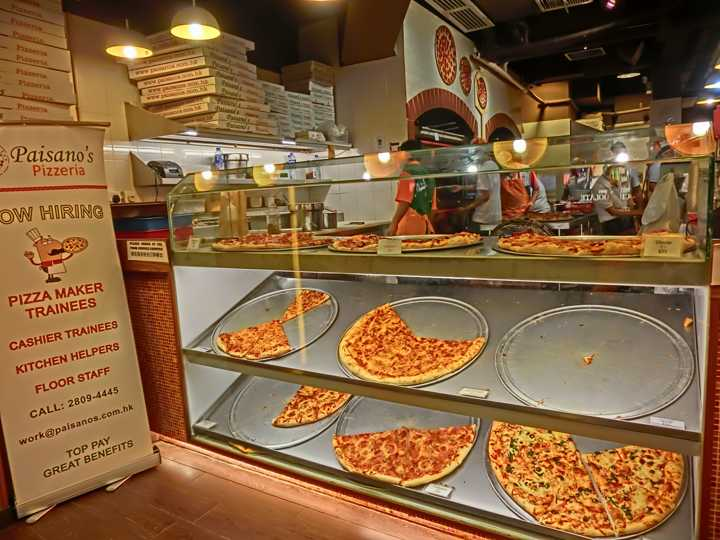
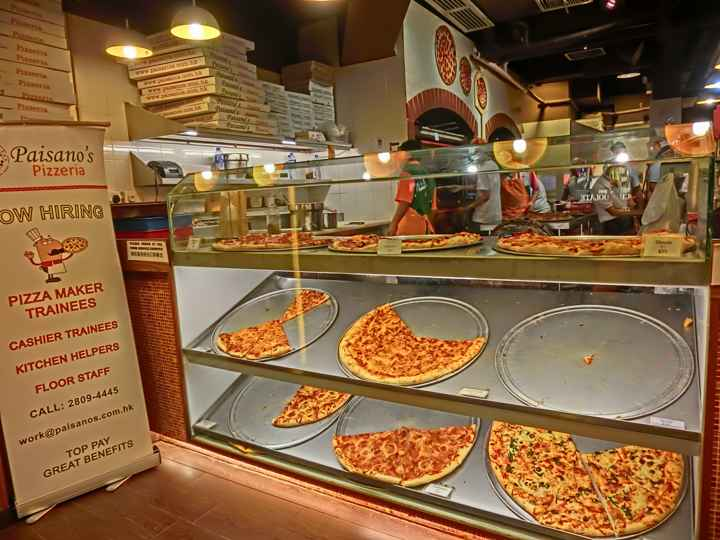
All pages optimized

diff --git a/views/js/main.min.js b/views/js/main.min.js
@@ -1,1 +1,1 @@
-function getAdj(a){switch(a){case"dark":var b=["dark","morbid","scary","spooky","gothic","deviant","creepy","sadistic","black","dangerous","dejected","haunted","morose","tragic","shattered","broken","sad","melancholy","somber","dark","gloomy","homicidal","murderous","shady","misty","dusky","ghostly","shadowy","demented","cursed","insane","possessed","grotesque","obsessed"];return b;case"color":var c=["blue","green","purple","grey","scarlet","NeonGreen","NeonBlue","NeonPink","HotPink","pink","black","red","maroon","silver","golden","yellow","orange","mustard","plum","violet","cerulean","brown","lavender","violet","magenta","chestnut","rosy","copper","crimson","teal","indigo","navy","azure","periwinkle","brassy","verdigris","veridian","tan","raspberry","beige","sandy","ElectricBlue","white","champagne","coral","cyan"];return c;case"whimsical":var d=["whimsical","silly","drunken","goofy","funny","weird","strange","odd","playful","clever","boastful","breakdancing","hilarious","conceited","happy","comical","curious","peculiar","quaint","quirky","fancy","wayward","fickle","yawning","sleepy","cockeyed","dizzy","dancing","absurd","laughing","hairy","smiling","perplexed","baffled","cockamamie","vulgar","hoodwinked","brainwashed"];return d;case"shiny":var e=["sapphire","opal","silver","gold","platinum","ruby","emerald","topaz","diamond","amethyst","turquoise","starlit","moonlit","bronze","metal","jade","amber","garnet","obsidian","onyx","pearl","copper","sunlit","brass","brassy","metallic"];return e;case"noisy":var f=["untuned","loud","soft","shrieking","melodious","musical","operatic","symphonic","dancing","lyrical","harmonic","orchestral","noisy","dissonant","rhythmic","hissing","singing","crooning","shouting","screaming","wailing","crying","howling","yelling","hollering","caterwauling","bawling","bellowing","roaring","squealing","beeping","knocking","tapping","rapping","humming","scatting","whispered","whispering","rasping","buzzing","whirring","whistling","whistled"];return f;case"apocalyptic":var g=["nuclear","apocalyptic","desolate","atomic","zombie","collapsed","grim","fallen","collapsed","cannibalistic","radioactive","toxic","poisonous","venomous","disastrous","grimy","dirty","undead","bloodshot","rusty","glowing","decaying","rotten","deadly","plagued","decimated","rotting","putrid","decayed","deserted","acidic"];return g;case"insulting":var h=["stupid","idiotic","fat","ugly","hideous","grotesque","dull","dumb","lazy","sluggish","brainless","slow","gullible","obtuse","dense","dim","dazed","ridiculous","witless","daft","crazy","vapid","inane","mundane","hollow","vacuous","boring","insipid","tedious","monotonous","weird","bizarre","backward","moronic","ignorant","scatterbrained","forgetful","careless","lethargic","insolent","indolent","loitering","gross","disgusting","bland","horrid","unseemly","revolting","homely","deformed","disfigured","offensive","cowardly","weak","villainous","fearful","monstrous","unattractive","unpleasant","nasty","beastly","snide","horrible","syncophantic","unhelpful","bootlicking"];return h;case"praise":var i=["beautiful","intelligent","smart","genius","ingenious","gorgeous","pretty","witty","angelic","handsome","graceful","talented","exquisite","enchanting","fascinating","interesting","divine","alluring","ravishing","wonderful","magnificient","marvelous","dazzling","cute","charming","attractive","nifty","delightful","superior","amiable","gentle","heroic","courageous","valiant","brave","noble","daring","fearless","gallant","adventurous","cool","enthusiastic","fierce","awesome","radical","tubular","fearsome","majestic","grand","stunning"];return i;case"scientific":var j=["scientific","technical","digital","programming","calculating","formulating","cyberpunk","mechanical","technological","innovative","brainy","chemical","quantum","astro","space","theoretical","atomic","electronic","gaseous","investigative","solar","extinct","galactic"];return j;default:var k=["scientific","technical","digital","programming","calculating","formulating","cyberpunk","mechanical","technological","innovative","brainy","chemical","quantum","astro","space","theoretical","atomic","electronic","gaseous","investigative","solar","extinct","galactic"];return k}}function getNoun(a){switch(a){case"animals":var b=["flamingo","hedgehog","owl","elephant","pussycat","alligator","dachsund","poodle","beagle","crocodile","kangaroo","wallaby","woodpecker","eagle","falcon","canary","parrot","parakeet","hamster","gerbil","squirrel","rat","dove","toucan","raccoon","vulture","peacock","goldfish","rook","koala","skunk","goat","rooster","fox","porcupine","llama","grasshopper","gorilla","monkey","seahorse","wombat","wolf","giraffe","badger","lion","mouse","beetle","cricket","nightingale","hawk","trout","squid","octopus","sloth","snail","locust","baboon","lemur","meerkat","oyster","frog","toad","jellyfish","butterfly","caterpillar","tiger","hyena","zebra","snail","pig","weasel","donkey","penguin","crane","buzzard","vulture","rhino","hippopotamus","dolphin","sparrow","beaver","moose","minnow","otter","bat","mongoose","swan","firefly","platypus"];return b;case"profession":var c=["doctor","lawyer","ninja","writer","samurai","surgeon","clerk","artist","actor","engineer","mechanic","comedian","fireman","nurse","RockStar","musician","carpenter","plumber","cashier","electrician","waiter","president","governor","senator","scientist","programmer","singer","dancer","director","mayor","merchant","detective","investigator","navigator","pilot","priest","cowboy","stagehand","soldier","ambassador","pirate","miner","police"];return c;case"fantasy":var d=["centaur","wizard","gnome","orc","troll","sword","fairy","pegasus","halfling","elf","changeling","ghost","knight","squire","magician","witch","warlock","unicorn","dragon","wyvern","princess","prince","king","queen","jester","tower","castle","kraken","seamonster","mermaid","psychic","seer","oracle"];return d;case"music":var e=["violin","flute","bagpipe","guitar","symphony","orchestra","piano","trombone","tuba","opera","drums","harpsichord","harp","harmonica","accordion","tenor","soprano","baritone","cello","viola","piccolo","ukelele","woodwind","saxophone","bugle","trumpet","sousaphone","cornet","stradivarius","marimbas","bells","timpani","bongos","clarinet","recorder","oboe","conductor","singer"];return e;case"horror":var f=["murderer","chainsaw","knife","sword","murder","devil","killer","psycho","ghost","monster","godzilla","werewolf","vampire","demon","graveyard","zombie","mummy","curse","death","grave","tomb","beast","nightmare","frankenstein","specter","poltergeist","wraith","corpse","scream","massacre","cannibal","skull","bones","undertaker","zombie","creature","mask","psychopath","fiend","satanist","moon","fullMoon"];return f;case"gross":var g=["slime","bug","roach","fluid","pus","booger","spit","boil","blister","orifice","secretion","mucus","phlegm","centipede","beetle","fart","snot","crevice","flatulence","juice","mold","mildew","germs","discharge","toilet","udder","odor","substance","fluid","moisture","garbage","trash","bug"];return g;case"everyday":var h=["mirror","knife","fork","spork","spoon","tupperware","minivan","suburb","lamp","desk","stereo","television","TV","book","car","truck","soda","door","video","game","computer","calender","tree","plant","flower","chimney","attic","kitchen","garden","school","wallet","bottle"];return h;case"jewelry":var i=["earrings","ring","necklace","pendant","choker","brooch","bracelet","cameo","charm","bauble","trinket","jewelry","anklet","bangle","locket","finery","crown","tiara","blingBling","chain","rosary","jewel","gemstone","beads","armband","pin","costume","ornament","treasure"];return i;case"places":var j=["swamp","graveyard","cemetery","park","building","house","river","ocean","sea","field","forest","woods","neighborhood","city","town","suburb","country","meadow","cliffs","lake","stream","creek","school","college","university","library","bakery","shop","store","theater","garden","canyon","highway","restaurant","cafe","diner","street","road","freeway","alley"];return j;case"scifi":var k=["robot","alien","raygun","spaceship","UFO","rocket","phaser","astronaut","spaceman","planet","star","galaxy","computer","future","timeMachine","wormHole","timeTraveler","scientist","invention","martian","pluto","jupiter","saturn","mars","quasar","blackHole","warpDrive","laser","orbit","gears","molecule","electron","neutrino","proton","experiment","photon","apparatus","universe","gravity","darkMatter","constellation","circuit","asteroid"];return k;default:var l=["robot","alien","raygun","spaceship","UFO","rocket","phaser","astronaut","spaceman","planet","star","galaxy","computer","future","timeMachine","wormHole","timeTraveler","scientist","invention","martian","pluto","jupiter","saturn","mars","quasar","blackHole","warpDrive","laser","orbit","gears","molecule","electron","neutrino","proton","experiment","photon","apparatus","universe","gravity","darkMatter","constellation","circuit","asteroid"];return l}}function generator(a,b){var c=getAdj(a),d=getNoun(b),e=parseInt(Math.random()*c.length),f=parseInt(Math.random()*d.length),g="The "+c[e].capitalize()+" "+d[f].capitalize();return g}function randomName(){var a=parseInt(Math.random()*adjectives.length),b=parseInt(Math.random()*nouns.length);return generator(adjectives[a],nouns[b])}function logAverageFrame(a){for(var b=a.length,c=0,d=b-1;d>b-11;d--)c+=a[d].duration;console.log("Average time to generate last 10 frames: "+c/10+"ms")}function updatePositions(){frame++,window.performance.mark("mark_start_frame");for(var a=document.querySelectorAll(".mover"),b=0;b<a.length;b++){var c=Math.sin(document.body.scrollTop/1250+b%5);a[b].style.left=a[b].basicLeft+100*c+"px"}if(window.performance.mark("mark_end_frame"),window.performance.measure("measure_frame_duration","mark_start_frame","mark_end_frame"),frame%10===0){var d=window.performance.getEntriesByName("measure_frame_duration");logAverageFrame(d)}}var pizzaIngredients={};pizzaIngredients.meats=["Pepperoni","Sausage","Fennel Sausage","Spicy Sausage","Chicken","BBQ Chicken","Chorizo","Chicken Andouille","Salami","Tofu","Bacon","Canadian Bacon","Proscuitto","Italian Sausage","Ground Beef","Anchovies","Turkey","Ham","Venison","Lamb","Duck","Soylent Green","Carne Asada","Soppressata Picante","Coppa","Pancetta","Bresola","Lox","Guanciale","Chili","Beef Jerky","Pastrami","Kielbasa","Scallops","Filet Mignon"],pizzaIngredients.nonMeats=["White Onions","Red Onions","Sauteed Onions","Green Peppers","Red Peppers","Banana Peppers","Ghost Peppers","Habanero Peppers","Jalapeno Peppers","Stuffed Peppers","Spinach","Tomatoes","Pineapple","Pear Slices","Apple Slices","Mushrooms","Arugula","Basil","Fennel","Rosemary","Cilantro","Avocado","Guacamole","Salsa","Swiss Chard","Kale","Sun Dried Tomatoes","Walnuts","Artichoke","Asparagus","Caramelized Onions","Mango","Garlic","Olives","Cauliflower","Polenta","Fried Egg","Zucchini","Hummus"],pizzaIngredients.cheeses=["American Cheese","Swiss Cheese","Goat Cheese","Mozzarella Cheese","Parmesean Cheese","Velveeta Cheese","Gouda Cheese","Muenster Cheese","Applewood Cheese","Asiago Cheese","Bleu Cheese","Boursin Cheese","Brie Cheese","Cheddar Cheese","Chevre Cheese","Havarti Cheese","Jack Cheese","Pepper Jack Cheese","Gruyere Cheese","Limberger Cheese","Manchego Cheese","Marscapone Cheese","Pecorino Cheese","Provolone Cheese","Queso Cheese","Roquefort Cheese","Romano Cheese","Ricotta Cheese","Smoked Gouda"],pizzaIngredients.sauces=["Red Sauce","Marinara","BBQ Sauce","No Sauce","Hot Sauce"],pizzaIngredients.crusts=["White Crust","Whole Wheat Crust","Flatbread Crust","Stuffed Crust"],String.prototype.capitalize=function(){return this.charAt(0).toUpperCase()+this.slice(1)};var adjectives=["dark","color","whimsical","shiny","noise","apocalyptic","insulting","praise","scientific"],nouns=["animals","everyday","fantasy","gross","horror","jewelry","places","scifi"],selectRandomMeat=function(){var a=pizzaIngredients.meats[Math.floor(Math.random()*pizzaIngredients.meats.length)];return a},selectRandomNonMeat=function(){var a=pizzaIngredients.nonMeats[Math.floor(Math.random()*pizzaIngredients.nonMeats.length)];return a},selectRandomCheese=function(){var a=pizzaIngredients.cheeses[Math.floor(Math.random()*pizzaIngredients.cheeses.length)];return a},selectRandomSauce=function(){var a=pizzaIngredients.sauces[Math.floor(Math.random()*pizzaIngredients.sauces.length)];return a},selectRandomCrust=function(){var a=pizzaIngredients.crusts[Math.floor(Math.random()*pizzaIngredients.crusts.length)];return a},ingredientItemizer=function(a){return"<li>"+a+"</li>"},makeRandomPizza=function(){for(var a="",b=Math.floor(4*Math.random()),c=Math.floor(3*Math.random()),d=Math.floor(2*Math.random()),e=0;b>e;e++)a+=ingredientItemizer(selectRandomMeat());for(var f=0;c>f;f++)a+=ingredientItemizer(selectRandomNonMeat());for(var g=0;d>g;g++)a+=ingredientItemizer(selectRandomCheese());return a+=ingredientItemizer(selectRandomSauce()),a+=ingredientItemizer(selectRandomCrust())},pizzaElementGenerator=function(a){var b,c,d,e,f,g;return b=document.createElement("div"),c=document.createElement("div"),d=document.createElement("img"),e=document.createElement("div"),b.classList.add("randomPizzaContainer"),b.style.width="33.33%",b.style.height="325px",b.id="pizza"+a,c.classList.add("col-md-6"),d.src="images/pizza.png",d.classList.add("img-responsive"),c.appendChild(d),b.appendChild(c),e.classList.add("col-md-6"),f=document.createElement("h4"),f.innerHTML=randomName(),e.appendChild(f),g=document.createElement("ul"),g.innerHTML=makeRandomPizza(),e.appendChild(g),b.appendChild(e),b},resizePizzas=function(a){function b(a){switch(a){case"1":return void(document.querySelector("#pizzaSize").innerHTML="Small");case"2":return void(document.querySelector("#pizzaSize").innerHTML="Medium");case"3":return void(document.querySelector("#pizzaSize").innerHTML="Large");default:console.log("bug in changeSliderLabel")}}function c(a,b){function c(a){switch(a){case"1":return.25;case"2":return.3333;case"3":return.5;default:console.log("bug in sizeSwitcher")}}var d=a.offsetWidth,e=document.querySelector("#randomPizzas").offsetWidth,f=d/e,g=c(b),h=(g-f)*e;return h}function d(a){for(var b=0;b<document.querySelectorAll(".randomPizzaContainer").length;b++){var d=c(document.querySelectorAll(".randomPizzaContainer")[b],a),e=document.querySelectorAll(".randomPizzaContainer")[b].offsetWidth+d+"px";document.querySelectorAll(".randomPizzaContainer")[b].style.width=e}}window.performance.mark("mark_start_resize"),b(a),d(a),window.performance.mark("mark_end_resize"),window.performance.measure("measure_pizza_resize","mark_start_resize","mark_end_resize");var e=window.performance.getEntriesByName("measure_pizza_resize");console.log("Time to resize pizzas: "+e[0].duration+"ms")};window.performance.mark("mark_start_generating");for(var i=2;100>i;i++){var pizzasDiv=document.getElementById("randomPizzas");pizzasDiv.appendChild(pizzaElementGenerator(i))}window.performance.mark("mark_end_generating"),window.performance.measure("measure_pizza_generation","mark_start_generating","mark_end_generating");var timeToGenerate=window.performance.getEntriesByName("measure_pizza_generation");console.log("Time to generate pizzas on load: "+timeToGenerate[0].duration+"ms");var frame=0;window.addEventListener("scroll",updatePositions),document.addEventListener("DOMContentLoaded",function(){for(var a=8,b=256,c=0;200>c;c++){var d=document.createElement("img");d.className="mover",d.src="images/pizza.png",d.style.height="100px",d.style.width="73.333px",d.basicLeft=c%a*b,d.style.top=Math.floor(c/a)*b+"px",document.querySelector("#movingPizzas1").appendChild(d)}updatePositions()});
+function getAdj(a){switch(a){case"dark":var b=["dark","morbid","scary","spooky","gothic","deviant","creepy","sadistic","black","dangerous","dejected","haunted","morose","tragic","shattered","broken","sad","melancholy","somber","dark","gloomy","homicidal","murderous","shady","misty","dusky","ghostly","shadowy","demented","cursed","insane","possessed","grotesque","obsessed"];return b;case"color":var c=["blue","green","purple","grey","scarlet","NeonGreen","NeonBlue","NeonPink","HotPink","pink","black","red","maroon","silver","golden","yellow","orange","mustard","plum","violet","cerulean","brown","lavender","violet","magenta","chestnut","rosy","copper","crimson","teal","indigo","navy","azure","periwinkle","brassy","verdigris","veridian","tan","raspberry","beige","sandy","ElectricBlue","white","champagne","coral","cyan"];return c;case"whimsical":var d=["whimsical","silly","drunken","goofy","funny","weird","strange","odd","playful","clever","boastful","breakdancing","hilarious","conceited","happy","comical","curious","peculiar","quaint","quirky","fancy","wayward","fickle","yawning","sleepy","cockeyed","dizzy","dancing","absurd","laughing","hairy","smiling","perplexed","baffled","cockamamie","vulgar","hoodwinked","brainwashed"];return d;case"shiny":var e=["sapphire","opal","silver","gold","platinum","ruby","emerald","topaz","diamond","amethyst","turquoise","starlit","moonlit","bronze","metal","jade","amber","garnet","obsidian","onyx","pearl","copper","sunlit","brass","brassy","metallic"];return e;case"noisy":var f=["untuned","loud","soft","shrieking","melodious","musical","operatic","symphonic","dancing","lyrical","harmonic","orchestral","noisy","dissonant","rhythmic","hissing","singing","crooning","shouting","screaming","wailing","crying","howling","yelling","hollering","caterwauling","bawling","bellowing","roaring","squealing","beeping","knocking","tapping","rapping","humming","scatting","whispered","whispering","rasping","buzzing","whirring","whistling","whistled"];return f;case"apocalyptic":var g=["nuclear","apocalyptic","desolate","atomic","zombie","collapsed","grim","fallen","collapsed","cannibalistic","radioactive","toxic","poisonous","venomous","disastrous","grimy","dirty","undead","bloodshot","rusty","glowing","decaying","rotten","deadly","plagued","decimated","rotting","putrid","decayed","deserted","acidic"];return g;case"insulting":var h=["stupid","idiotic","fat","ugly","hideous","grotesque","dull","dumb","lazy","sluggish","brainless","slow","gullible","obtuse","dense","dim","dazed","ridiculous","witless","daft","crazy","vapid","inane","mundane","hollow","vacuous","boring","insipid","tedious","monotonous","weird","bizarre","backward","moronic","ignorant","scatterbrained","forgetful","careless","lethargic","insolent","indolent","loitering","gross","disgusting","bland","horrid","unseemly","revolting","homely","deformed","disfigured","offensive","cowardly","weak","villainous","fearful","monstrous","unattractive","unpleasant","nasty","beastly","snide","horrible","syncophantic","unhelpful","bootlicking"];return h;case"praise":var i=["beautiful","intelligent","smart","genius","ingenious","gorgeous","pretty","witty","angelic","handsome","graceful","talented","exquisite","enchanting","fascinating","interesting","divine","alluring","ravishing","wonderful","magnificient","marvelous","dazzling","cute","charming","attractive","nifty","delightful","superior","amiable","gentle","heroic","courageous","valiant","brave","noble","daring","fearless","gallant","adventurous","cool","enthusiastic","fierce","awesome","radical","tubular","fearsome","majestic","grand","stunning"];return i;case"scientific":var j=["scientific","technical","digital","programming","calculating","formulating","cyberpunk","mechanical","technological","innovative","brainy","chemical","quantum","astro","space","theoretical","atomic","electronic","gaseous","investigative","solar","extinct","galactic"];return j;default:var k=["scientific","technical","digital","programming","calculating","formulating","cyberpunk","mechanical","technological","innovative","brainy","chemical","quantum","astro","space","theoretical","atomic","electronic","gaseous","investigative","solar","extinct","galactic"];return k}}function getNoun(a){switch(a){case"animals":var b=["flamingo","hedgehog","owl","elephant","pussycat","alligator","dachsund","poodle","beagle","crocodile","kangaroo","wallaby","woodpecker","eagle","falcon","canary","parrot","parakeet","hamster","gerbil","squirrel","rat","dove","toucan","raccoon","vulture","peacock","goldfish","rook","koala","skunk","goat","rooster","fox","porcupine","llama","grasshopper","gorilla","monkey","seahorse","wombat","wolf","giraffe","badger","lion","mouse","beetle","cricket","nightingale","hawk","trout","squid","octopus","sloth","snail","locust","baboon","lemur","meerkat","oyster","frog","toad","jellyfish","butterfly","caterpillar","tiger","hyena","zebra","snail","pig","weasel","donkey","penguin","crane","buzzard","vulture","rhino","hippopotamus","dolphin","sparrow","beaver","moose","minnow","otter","bat","mongoose","swan","firefly","platypus"];return b;case"profession":var c=["doctor","lawyer","ninja","writer","samurai","surgeon","clerk","artist","actor","engineer","mechanic","comedian","fireman","nurse","RockStar","musician","carpenter","plumber","cashier","electrician","waiter","president","governor","senator","scientist","programmer","singer","dancer","director","mayor","merchant","detective","investigator","navigator","pilot","priest","cowboy","stagehand","soldier","ambassador","pirate","miner","police"];return c;case"fantasy":var d=["centaur","wizard","gnome","orc","troll","sword","fairy","pegasus","halfling","elf","changeling","ghost","knight","squire","magician","witch","warlock","unicorn","dragon","wyvern","princess","prince","king","queen","jester","tower","castle","kraken","seamonster","mermaid","psychic","seer","oracle"];return d;case"music":var e=["violin","flute","bagpipe","guitar","symphony","orchestra","piano","trombone","tuba","opera","drums","harpsichord","harp","harmonica","accordion","tenor","soprano","baritone","cello","viola","piccolo","ukelele","woodwind","saxophone","bugle","trumpet","sousaphone","cornet","stradivarius","marimbas","bells","timpani","bongos","clarinet","recorder","oboe","conductor","singer"];return e;case"horror":var f=["murderer","chainsaw","knife","sword","murder","devil","killer","psycho","ghost","monster","godzilla","werewolf","vampire","demon","graveyard","zombie","mummy","curse","death","grave","tomb","beast","nightmare","frankenstein","specter","poltergeist","wraith","corpse","scream","massacre","cannibal","skull","bones","undertaker","zombie","creature","mask","psychopath","fiend","satanist","moon","fullMoon"];return f;case"gross":var g=["slime","bug","roach","fluid","pus","booger","spit","boil","blister","orifice","secretion","mucus","phlegm","centipede","beetle","fart","snot","crevice","flatulence","juice","mold","mildew","germs","discharge","toilet","udder","odor","substance","fluid","moisture","garbage","trash","bug"];return g;case"everyday":var h=["mirror","knife","fork","spork","spoon","tupperware","minivan","suburb","lamp","desk","stereo","television","TV","book","car","truck","soda","door","video","game","computer","calender","tree","plant","flower","chimney","attic","kitchen","garden","school","wallet","bottle"];return h;case"jewelry":var i=["earrings","ring","necklace","pendant","choker","brooch","bracelet","cameo","charm","bauble","trinket","jewelry","anklet","bangle","locket","finery","crown","tiara","blingBling","chain","rosary","jewel","gemstone","beads","armband","pin","costume","ornament","treasure"];return i;case"places":var j=["swamp","graveyard","cemetery","park","building","house","river","ocean","sea","field","forest","woods","neighborhood","city","town","suburb","country","meadow","cliffs","lake","stream","creek","school","college","university","library","bakery","shop","store","theater","garden","canyon","highway","restaurant","cafe","diner","street","road","freeway","alley"];return j;case"scifi":var k=["robot","alien","raygun","spaceship","UFO","rocket","phaser","astronaut","spaceman","planet","star","galaxy","computer","future","timeMachine","wormHole","timeTraveler","scientist","invention","martian","pluto","jupiter","saturn","mars","quasar","blackHole","warpDrive","laser","orbit","gears","molecule","electron","neutrino","proton","experiment","photon","apparatus","universe","gravity","darkMatter","constellation","circuit","asteroid"];return k;default:var l=["robot","alien","raygun","spaceship","UFO","rocket","phaser","astronaut","spaceman","planet","star","galaxy","computer","future","timeMachine","wormHole","timeTraveler","scientist","invention","martian","pluto","jupiter","saturn","mars","quasar","blackHole","warpDrive","laser","orbit","gears","molecule","electron","neutrino","proton","experiment","photon","apparatus","universe","gravity","darkMatter","constellation","circuit","asteroid"];return l}}function generator(a,b){var c=getAdj(a),d=getNoun(b),e=parseInt(Math.random()*c.length),f=parseInt(Math.random()*d.length),g="The "+c[e].capitalize()+" "+d[f].capitalize();return g}function randomName(){var a=parseInt(Math.random()*adjectives.length),b=parseInt(Math.random()*nouns.length);return generator(adjectives[a],nouns[b])}function logAverageFrame(a){for(var b=a.length,c=0,d=b-1;d>b-11;d--)c+=a[d].duration;console.log("Average time to generate last 10 frames: "+c/10+"ms")}function updatePositions(){frame++,window.performance.mark("mark_start_frame");for(var a=document.body.scrollTop/1250,b=0;b<pizzaLength;b++){var c=Math.sin(a+i5[counter]);counter++,counter>4&&(counter=0),items[b].style.left=items[b].basicLeft+100*c+"px"}if(window.performance.mark("mark_end_frame"),window.performance.measure("measure_frame_duration","mark_start_frame","mark_end_frame"),frame%10===0){var d=window.performance.getEntriesByName("measure_frame_duration");logAverageFrame(d)}}var pizzaIngredients={};pizzaIngredients.meats=["Pepperoni","Sausage","Fennel Sausage","Spicy Sausage","Chicken","BBQ Chicken","Chorizo","Chicken Andouille","Salami","Tofu","Bacon","Canadian Bacon","Proscuitto","Italian Sausage","Ground Beef","Anchovies","Turkey","Ham","Venison","Lamb","Duck","Soylent Green","Carne Asada","Soppressata Picante","Coppa","Pancetta","Bresola","Lox","Guanciale","Chili","Beef Jerky","Pastrami","Kielbasa","Scallops","Filet Mignon"],pizzaIngredients.nonMeats=["White Onions","Red Onions","Sauteed Onions","Green Peppers","Red Peppers","Banana Peppers","Ghost Peppers","Habanero Peppers","Jalapeno Peppers","Stuffed Peppers","Spinach","Tomatoes","Pineapple","Pear Slices","Apple Slices","Mushrooms","Arugula","Basil","Fennel","Rosemary","Cilantro","Avocado","Guacamole","Salsa","Swiss Chard","Kale","Sun Dried Tomatoes","Walnuts","Artichoke","Asparagus","Caramelized Onions","Mango","Garlic","Olives","Cauliflower","Polenta","Fried Egg","Zucchini","Hummus"],pizzaIngredients.cheeses=["American Cheese","Swiss Cheese","Goat Cheese","Mozzarella Cheese","Parmesean Cheese","Velveeta Cheese","Gouda Cheese","Muenster Cheese","Applewood Cheese","Asiago Cheese","Bleu Cheese","Boursin Cheese","Brie Cheese","Cheddar Cheese","Chevre Cheese","Havarti Cheese","Jack Cheese","Pepper Jack Cheese","Gruyere Cheese","Limberger Cheese","Manchego Cheese","Marscapone Cheese","Pecorino Cheese","Provolone Cheese","Queso Cheese","Roquefort Cheese","Romano Cheese","Ricotta Cheese","Smoked Gouda"],pizzaIngredients.sauces=["Red Sauce","Marinara","BBQ Sauce","No Sauce","Hot Sauce"],pizzaIngredients.crusts=["White Crust","Whole Wheat Crust","Flatbread Crust","Stuffed Crust"],String.prototype.capitalize=function(){return this.charAt(0).toUpperCase()+this.slice(1)};var adjectives=["dark","color","whimsical","shiny","noise","apocalyptic","insulting","praise","scientific"],nouns=["animals","everyday","fantasy","gross","horror","jewelry","places","scifi"],selectRandomMeat=function(){var a=pizzaIngredients.meats[Math.floor(Math.random()*pizzaIngredients.meats.length)];return a},selectRandomNonMeat=function(){var a=pizzaIngredients.nonMeats[Math.floor(Math.random()*pizzaIngredients.nonMeats.length)];return a},selectRandomCheese=function(){var a=pizzaIngredients.cheeses[Math.floor(Math.random()*pizzaIngredients.cheeses.length)];return a},selectRandomSauce=function(){var a=pizzaIngredients.sauces[Math.floor(Math.random()*pizzaIngredients.sauces.length)];return a},selectRandomCrust=function(){var a=pizzaIngredients.crusts[Math.floor(Math.random()*pizzaIngredients.crusts.length)];return a},ingredientItemizer=function(a){return"<li>"+a+"</li>"},makeRandomPizza=function(){for(var a="",b=Math.floor(4*Math.random()),c=Math.floor(3*Math.random()),d=Math.floor(2*Math.random()),e=0;b>e;e++)a+=ingredientItemizer(selectRandomMeat());for(var f=0;c>f;f++)a+=ingredientItemizer(selectRandomNonMeat());for(var g=0;d>g;g++)a+=ingredientItemizer(selectRandomCheese());return a+=ingredientItemizer(selectRandomSauce()),a+=ingredientItemizer(selectRandomCrust())},pizzaElementGenerator=function(a){var b,c,d,e,f,g;return b=document.createElement("div"),c=document.createElement("div"),d=document.createElement("img"),e=document.createElement("div"),b.classList.add("randomPizzaContainer"),b.style.width="33.33%",b.style.height="325px",b.id="pizza"+a,c.classList.add("col-md-6"),d.src="images/pizza.png",d.classList.add("img-responsive"),c.appendChild(d),b.appendChild(c),e.classList.add("col-md-6"),f=document.createElement("h4"),f.innerHTML=randomName(),e.appendChild(f),g=document.createElement("ul"),g.innerHTML=makeRandomPizza(),e.appendChild(g),b.appendChild(e),b},resizePizzas=function(a){function b(a){switch(a){case"1":return void(document.querySelector("#pizzaSize").innerHTML="Small");case"2":return void(document.querySelector("#pizzaSize").innerHTML="Medium");case"3":return void(document.querySelector("#pizzaSize").innerHTML="Large");default:console.log("bug in changeSliderLabel")}}function c(a){switch(a){case"1":newWidth=25;break;case"2":newWidth=33.3;break;case"3":newWidth=50;break;default:console.log("bug in sizeSwitcher")}for(var b=document.querySelectorAll(".randomPizzaContainer"),c=0;c<b.length;c++)b[c].style.width=newWidth+"%"}window.performance.mark("mark_start_resize"),b(a),c(a),window.performance.mark("mark_end_resize"),window.performance.measure("measure_pizza_resize","mark_start_resize","mark_end_resize");var d=window.performance.getEntriesByName("measure_pizza_resize");console.log("Time to resize pizzas: "+d[0].duration+"ms")};window.performance.mark("mark_start_generating");for(var i=2;100>i;i++){var pizzasDiv=document.getElementById("randomPizzas");pizzasDiv.appendChild(pizzaElementGenerator(i))}window.performance.mark("mark_end_generating"),window.performance.measure("measure_pizza_generation","mark_start_generating","mark_end_generating");var timeToGenerate=window.performance.getEntriesByName("measure_pizza_generation");console.log("Time to generate pizzas on load: "+timeToGenerate[0].duration+"ms");var frame=0,counter=0,i5=[0,1,2,3,4];window.addEventListener("scroll",updatePositions),document.addEventListener("DOMContentLoaded",function(){for(var a=8,b=256,c=0;35>c;c++){var d=document.createElement("img");d.className="mover",d.src="images/pizza.png",d.style.height="100px",d.style.width="73.333px",d.basicLeft=c%a*b,d.style.top=Math.floor(c/a)*b+"px",document.querySelector("#movingPizzas1").appendChild(d)}window.items=document.getElementsByClassName("mover"),window.pizzaLength=items.length,updatePositions()});

diff --git a/views/js/main.js b/views/js/main.js
@@ -422,38 +422,30 @@ var resizePizzas = function(size) {
   changeSliderLabel(size);
 
   // Returns the size difference to change a pizza element from one size to another. Called by changePizzaSlices(size).
-  function determineDx (elem, size) {
-    var oldwidth = elem.offsetWidth;
-    var windowwidth = document.querySelector("#randomPizzas").offsetWidth;
-    var oldsize = oldwidth / windowwidth;
-
-    // TODO: change to 3 sizes? no more xl?
-    // Changes the slider value to a percent width
-    function sizeSwitcher (size) {
-      switch(size) {
-        case "1":
-          return 0.25;
-        case "2":
-          return 0.3333;
-        case "3":
-          return 0.5;
-        default:
-          console.log("bug in sizeSwitcher");
-      }
-    }
-
-    var newsize = sizeSwitcher(size);
-    var dx = (newsize - oldsize) * windowwidth;
-
-    return dx;
-  }
-
   // Iterates through pizza elements on the page and changes their widths
+
+  // This function is modified to eliminate FSL. Inside the for loop layout was triggered for
+  // every pizza element before css which caused a performance bottleneck. Layout was triggered inside the 
+  // for loop because offsetWidth was called multiple times for each element to calculate the new size. 
+  // After modification, the switch case is modified and the call for offsetWidth is removed, this way a 
+  // proper flow of the render pipeline is maintained and style is triggered before layout. 
   function changePizzaSizes(size) {
-    for (var i = 0; i < document.querySelectorAll(".randomPizzaContainer").length; i++) {
-      var dx = determineDx(document.querySelectorAll(".randomPizzaContainer")[i], size);
-      var newwidth = (document.querySelectorAll(".randomPizzaContainer")[i].offsetWidth + dx) + 'px';
-      document.querySelectorAll(".randomPizzaContainer")[i].style.width = newwidth;
+    switch(size) {
+      case "1":
+        newWidth = 25;
+        break;
+      case "2":
+        newWidth = 33.3;
+        break;
+      case "3":
+        newWidth = 50;
+        break;
+      default:
+        console.log("bug in sizeSwitcher");
+    }
+    var randomPizzas = document.querySelectorAll(".randomPizzaContainer");
+    for (var i = 0; i < randomPizzas.length; i++) {
+      randomPizzas[i].style.width = newWidth + "%";
     }
   }
 
@@ -497,17 +489,37 @@ function logAverageFrame(times) {   // times is the array of User Timing measure
 // The following code for sliding background pizzas was pulled from Ilya's demo found at:
 // https://www.igvita.com/slides/2012/devtools-tips-and-tricks/jank-demo.html
 
+// The counter variable is used to select an item from the array i5. The array i5 contains all 
+// possible results of (i % 5) which was present in the original script.
+var counter = 0;
+var i5 = [0, 1, 2, 3, 4];
 // Moves the sliding background pizzas based on scroll position
 function updatePositions() {
   frame++;
   window.performance.mark("mark_start_frame");
+  // The querySelectAll(".mover") was moved to the end the file.
 
-  var items = document.querySelectorAll('.mover');
-  for (var i = 0; i < items.length; i++) {
-    var phase = Math.sin((document.body.scrollTop / 1250) + (i % 5));
+  // A varialbe location is declared here which calls scrollTop once for each scroll event instead of
+  // calling it inside the foor loop once for each background pizza element. The value location is then used
+  // as a constant for each scroll event inside the for loop to calculate phase. Before scrollTop was inside the
+  // for loop and for each element it was called which triggered layout before style for each element, which causes
+  // FSL and performance bottleneck.
+  var location = document.body.scrollTop / 1250;
+  // pizzaLength is defined at the end of the file to avoid calling items.length repeatedly.
+    for (var i = 0; i < pizzaLength; i++) {
+    // phase is calcaulated using the constant location and by selecting an element equivalent to (i % 5) from
+    // the array i5. If the counter excceds 4 it is then reset to zero.
+    var phase = Math.sin( location + i5[counter]);
+    counter ++;
+    if (counter > 4) {
+      counter = 0;
+    }
+    // Style is triggered for each element. I replaced this line with translateX, but didn't notice enhancement 
+    // in the performance so i retained the original line.
     items[i].style.left = items[i].basicLeft + 100 * phase + 'px';
   }
-
+  
+  
   // User Timing API to the rescue again. Seriously, it's worth learning.
   // Super easy to create custom metrics.
   window.performance.mark("mark_end_frame");
@@ -520,12 +532,16 @@ function updatePositions() {
 
 // runs updatePositions on scroll
 window.addEventListener('scroll', updatePositions);
+console.log("GdscscsdcG");
+// Generates the sliding pizzas when the page loads
 
-// Generates the sliding pizzas when the page loads.
 document.addEventListener('DOMContentLoaded', function() {
+  console.log("GGGG");
   var cols = 8;
   var s = 256;
-  for (var i = 0; i < 200; i++) {
+  // Instead of painting 200 pizzas. 35 pizzas are enough to cover the whole screen. So the number of sliding
+  // pizzas is reduced to 35 which significantly reduces the paint time.
+  for (var i = 0; i < 35; i++) {
     var elem = document.createElement('img');
     elem.className = 'mover';
     elem.src = "images/pizza.png";
@@ -533,7 +549,15 @@ document.addEventListener('DOMContentLoaded', function() {
     elem.style.width = "73.333px";
     elem.basicLeft = (i % cols) * s;
     elem.style.top = (Math.floor(i / cols) * s) + 'px';
+    // the propoerty backface-visibility: hidden was added to the class ".mover" in the style section in pizza.html
     document.querySelector("#movingPizzas1").appendChild(elem);
   }
+  // Instead of calling querySelectorAll for every scroll event, the line was moved from updatePositions()
+  // to this function so it would only be called once. querySelectorAll was replaced by getElementsByClassName()
+  // which is a faster way to call DOM elements.
+  window.items = document.getElementsByClassName('mover');
+  // A variable with a value equal to the number of sliding pizzas. It is used in the for statement inside
+  // updatePositions() function to avoid calling items.length repeatedly.
+  window.pizzaLength = items.length;
   updatePositions();
 });

diff --git a/index.html b/index.html
@@ -8,8 +8,10 @@
     <title>Cameron Pittman: Portfolio</title>
     <!-- Hmm, what is the impact of web fonts on speed? Measure it... -->
     <!-- removed this link <link href="//fonts.googleapis.com/css?family=Open+Sans:400,700" rel="stylesheet"> -->
+
     <!-- Added media print to remove css blocking, and loaded minified css file -->
     <link href="css/print.min.css" rel="stylesheet" media="print">
+    
     <!-- Removed render blocking css -->
     <style>
     	html {
@@ -18,49 +20,49 @@
 		  -webkit-tap-highlight-color: rgba(0,0,0,0);
 		  -ms-text-size-adjust: 100%;
 		  -webkit-text-size-adjust: none;
-		}
-		body { margin: 0; font-size: 14px; line-height: 1.61; font-weight: 400; }
-		body, button, input, select, textarea { font-family: 'Open Sans', sans-serif; color: #333; }
+  		}
+  		body { margin: 0; font-size: 14px; line-height: 1.61; font-weight: 400; }
+  		body, button, input, select, textarea { font-family: 'Open Sans', sans-serif; color: #333; }
 
-		a { color: #12C; }
-		a:visited { color: #61C; }
-		a:focus { outline: thin dotted; }
-		a:hover, a:active { color: #c00; outline: 0; }
+  		a { color: #12C; }
+  		a:visited { color: #61C; }
+  		a:focus { outline: thin dotted; }
+  		a:hover, a:active { color: #c00; outline: 0; }
 
-		b, strong { font-weight: bold; }
-		pre, code { font-family: monospace, monospace; font-size: 1em; }
-		ul, ol { margin: 1em 0; padding: 0 0 0 20px; }
-		img { border: 0; max-width: 100%; }
+  		b, strong { font-weight: bold; }
+  		pre, code { font-family: monospace, monospace; font-size: 1em; }
+  		ul, ol { margin: 1em 0; padding: 0 0 0 20px; }
+  		img { border: 0; max-width: 100%; }
 
-		body { background: #fff; }
-		header, footer, .container { max-width: 45em; margin: 0 auto; }
+  		body { background: #fff; }
+  		header, footer, .container { max-width: 45em; margin: 0 auto; }
 
-		header { padding: 0 0.5em; color: #C90B0B; }
-		header img { border-radius: 40px; float: left; }
-		header p { font-size:1.5em; font-weight: bold; padding-left: 4em;}
-		header p span { font-size: 0.8em; font-weight: normal;}
+  		header { padding: 0 0.5em; color: #C90B0B; }
+  		header img { border-radius: 40px; float: left; }
+  		header p { font-size:1.5em; font-weight: bold; padding-left: 4em;}
+  		header p span { font-size: 0.8em; font-weight: normal;}
 
-		.hero { padding: 2em; background-color: #f8f8f8; font-size:1.2em;
-		  border-bottom: 1px solid #ccc;
-		  border-top: 1px solid #ccc;
-		}
+  		.hero { padding: 2em; background-color: #f8f8f8; font-size:1.2em;
+  		  border-bottom: 1px solid #ccc;
+  		  border-top: 1px solid #ccc;
+  		}
 
-		.content { padding: 1em 1em; }
-		.content li { list-style-type: none; font-size: 1.1em;}
-		li img { float:left; padding-right: 1em; }
-		li p { font-size: 0.9em; font-style: italic; }
+  		.content { padding: 1em 1em; }
+  		.content li { list-style-type: none; font-size: 1.1em;}
+  		li img { float:left; padding-right: 1em; }
+  		li p { font-size: 0.9em; font-style: italic; }
 
-		footer {
-		  padding: 0 0.5em;
-		  border-top: 1px solid #ccc;
-		}
-		footer span { float: right; font-style: italic; }
+  		footer {
+  		  padding: 0 0.5em;
+  		  border-top: 1px solid #ccc;
+  		}
+  		footer span { float: right; font-style: italic; }
 
-		/* Smartphones (portrait) */
-		@media only screen and (max-width: 480px) {
-		  body { font-size: 12px;}
-		  header p { padding-left: 4.5em;}
-		}
+  		/* Smartphones (portrait) */
+  		@media only screen and (max-width: 480px) {
+  		  body { font-size: 12px;}
+  		  header p { padding-left: 4.5em;}
+  		}
     </style>
     <script>
       (function(w,g){w['GoogleAnalyticsObject']=g;

diff --git a/views/pizza.html b/views/pizza.html
@@ -1,8 +1,9 @@
 <!DOCTYPE HTML>
 <html>
 <head>  
-  <style>
-    * {
+<style>
+/* removed render blocking css */
+  * {
       -webkit-box-sizing: border-box;
       -moz-box-sizing: border-box;
       -box-sizing: border-box;
@@ -34,6 +35,7 @@
       position: fixed;
       width: 256px;
       z-index: -1;
+      backface-visibility: hidden;
     }
 
     .randomPizzaContainer {
@@ -47,10 +49,11 @@
       clear:both;
     }
 
-     .container {
+    .container {
       background-color: rgba(240, 60, 60, 0.8);
     }
   </style>
+  <!-- loaded minified bootstrap-grid -->
   <link rel="stylesheet" href="css/bootstrap-grid.min.css">
 </head>
 
@@ -85,7 +88,8 @@
     </div>
     <div id="callToAction" class="row">
       <div class="col-md-4">
-        <img src="images/pizzeria-720.jpg" class="img-responsive"> <!-- Image credit to: http://commons.wikimedia.org/wiki/File:HK_TST_night_%E5%98%89%E8%98%AD%E9%81%93_Granville_Road_restaurant_Paisano's_Pizzeria_pizza_Dec-2013.JPG -->
+        <img src="images/pizzeria-720.jpg" class="img-responsive"> <!-- resized and compressed pizzeria image -->
+        <!-- Image credit to: http://commons.wikimedia.org/wiki/File:HK_TST_night_%E5%98%89%E8%98%AD%E9%81%93_Granville_Road_restaurant_Paisano's_Pizzeria_pizza_Dec-2013.JPG -->
       </div>
       <div class="col-md-8">
         <div class="row">
@@ -186,7 +190,7 @@
     </div>
     <div id="footer" class="col-md-12">Thanks for visiting! &copy; 2014 Udacity</div>
   </div>
-  <script async type="text/javascript" src="js/main.min.js"></script>
+  <script type="text/javascript" src="js/main.min.js"></script>  <!-- loaded minified main.js -->
 </body>
 
 </html>

diff --git a/project-2048.html b/project-2048.html
@@ -9,16 +9,18 @@
 
     <!-- Hmm, what is the impact of web fonts on speed? Measure it... -->
     <!-- <link href="//fonts.googleapis.com/css?family=Open+Sans:400,700" rel="stylesheet"> -->
+
     <!-- Added media print to remove css blocking, and loaded minified css file -->
     <link href="css/print.min.css" rel="stylesheet" media="print">
+    
     <!-- Removed render blocking css -->
     <style>
       html {
-      font-size: 100%;
-      overflow-y: scroll;
-      -webkit-tap-highlight-color: rgba(0,0,0,0);
-      -ms-text-size-adjust: 100%;
-      -webkit-text-size-adjust: none;
+        font-size: 100%;
+        overflow-y: scroll;
+        -webkit-tap-highlight-color: rgba(0,0,0,0);
+        -ms-text-size-adjust: 100%;
+        -webkit-text-size-adjust: none;
       }
       body { margin: 0; font-size: 14px; line-height: 1.61; font-weight: 400; }
       body, button, input, select, textarea { font-family: 'Open Sans', sans-serif; color: #333; }

diff --git a/project-mobile.html b/project-mobile.html
@@ -12,14 +12,15 @@
 
     <!-- Added media print to remove css blocking, and loaded minified css file -->
     <link href="css/print.min.css" rel="stylesheet" media="print">
+    
     <!-- Removed render blocking css -->
     <style>
       html {
-      font-size: 100%;
-      overflow-y: scroll;
-      -webkit-tap-highlight-color: rgba(0,0,0,0);
-      -ms-text-size-adjust: 100%;
-      -webkit-text-size-adjust: none;
+        font-size: 100%;
+        overflow-y: scroll;
+        -webkit-tap-highlight-color: rgba(0,0,0,0);
+        -ms-text-size-adjust: 100%;
+        -webkit-text-size-adjust: none;
       }
       body { margin: 0; font-size: 14px; line-height: 1.61; font-weight: 400; }
       body, button, input, select, textarea { font-family: 'Open Sans', sans-serif; color: #333; }

diff --git a/project-webperf.html b/project-webperf.html
@@ -12,14 +12,15 @@
 
     <!-- Added media print to remove css blocking, and loaded minified css file -->
     <link href="css/print.min.css" rel="stylesheet" media="print">
+    
     <!-- Removed render blocking css -->
     <style>
       html {
-      font-size: 100%;
-      overflow-y: scroll;
-      -webkit-tap-highlight-color: rgba(0,0,0,0);
-      -ms-text-size-adjust: 100%;
-      -webkit-text-size-adjust: none;
+        font-size: 100%;
+        overflow-y: scroll;
+        -webkit-tap-highlight-color: rgba(0,0,0,0);
+        -ms-text-size-adjust: 100%;
+        -webkit-text-size-adjust: none;
       }
       body { margin: 0; font-size: 14px; line-height: 1.61; font-weight: 400; }
       body, button, input, select, textarea { font-family: 'Open Sans', sans-serif; color: #333; }

diff --git a/Gruntfile.js b/Gruntfile.js
@@ -51,14 +51,10 @@ module.exports = function(grunt) {
 
 	cssmin: {
 	  css1:{
-	    src: 'views/css/style.css',
-	    dest: 'views/css/style.min.css'
-	  },
-	  css2:{
 	    src: 'views/css/bootstrap-grid.css',
 	    dest: 'views/css/bootstrap-grid.min.css'
 	  },
-	  css3:{
+	  css2:{
 	    src: 'css/print.css',
 	    dest: 'css/print.min.css'
 	  },
